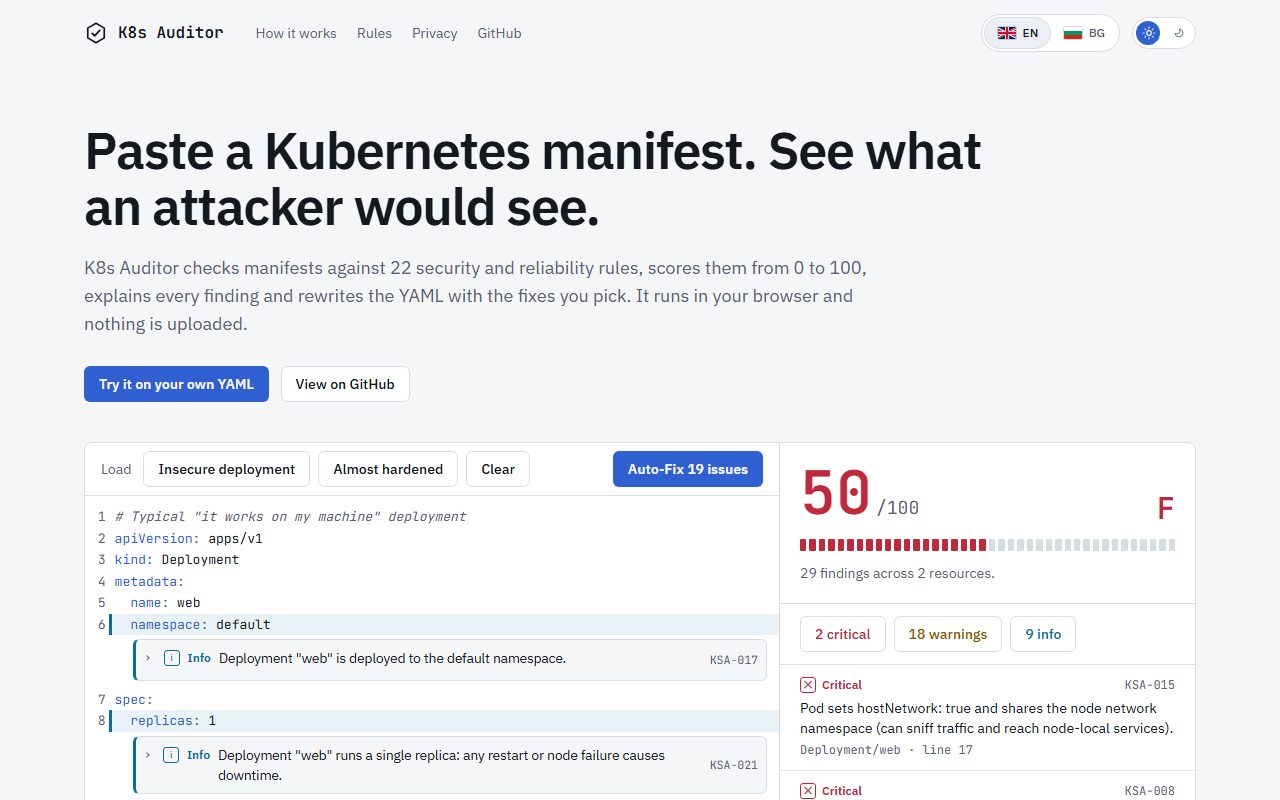
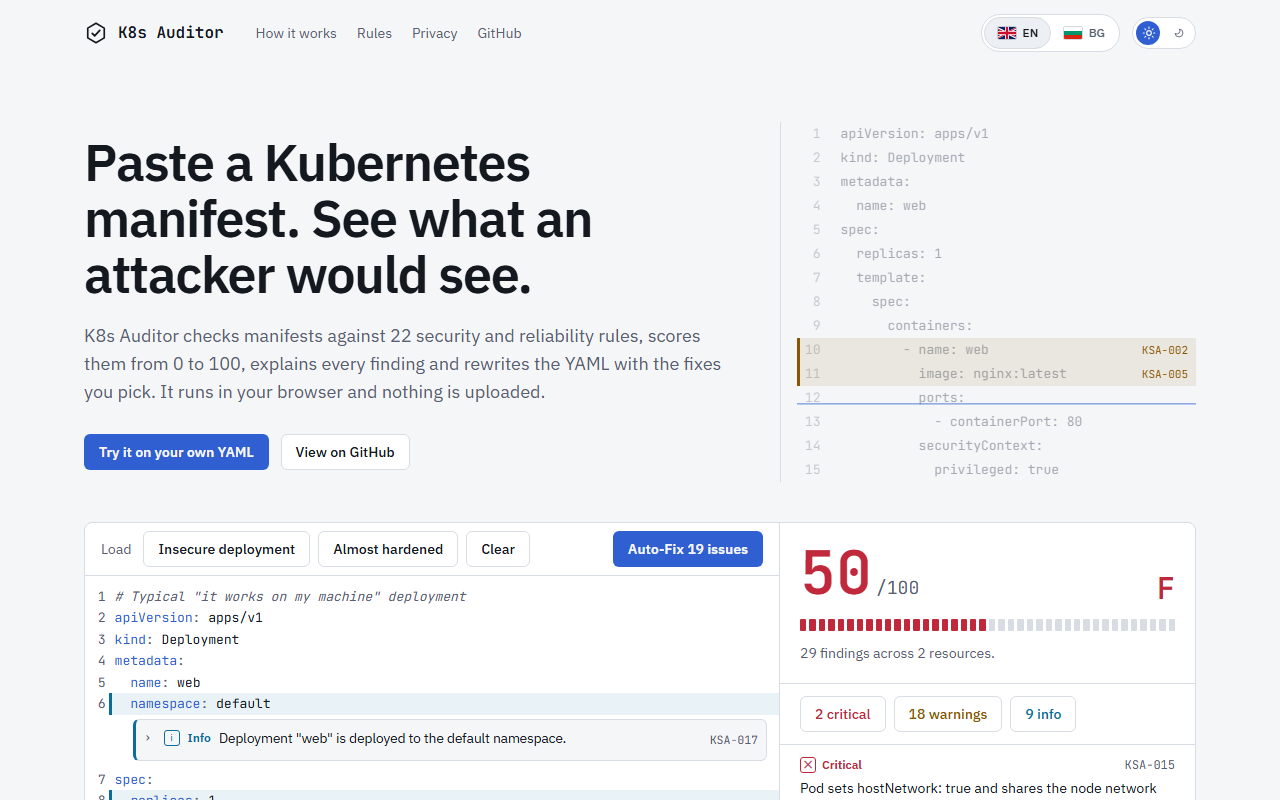
feat(ui): ghost manifest hero, pointer cursor and interaction states
Add a faint Deployment manifest to the hero that a thin scan line sweeps,
tinting the lines that carry findings. Give buttons, findings, annotations
and switches a pointer cursor with hover, active and focus states, and add
small transitions for the hero entrance and the grade. Everything honours
prefers-reduced-motion and the scan stops after three cycles.

diff --git a/src/index.css b/src/index.css
@@ -50,12 +50,25 @@
   --font-sans: 'IBM Plex Sans', 'Segoe UI', system-ui, sans-serif;
 }
 
+@layer base {
+  button:not(:disabled),
+  [role='switch'],
+  summary,
+  a[href] {
+    cursor: pointer;
+  }
+
+  button:disabled {
+    cursor: not-allowed;
+  }
+}
+
 @layer components {
   .btn {
-    @apply inline-flex min-h-10 items-center justify-center rounded-md border border-line bg-panel px-3.5 text-sm font-medium transition-colors hover:bg-raised disabled:opacity-40 lg:min-h-9;
+    @apply inline-flex min-h-10 items-center justify-center rounded-md border border-line bg-panel px-3.5 text-sm font-medium transition-[background-color,border-color,color,scale] duration-150 ease-out hover:bg-raised active:scale-[0.97] active:bg-[color-mix(in_srgb,var(--color-raised),var(--color-line)_60%)] disabled:opacity-40 disabled:active:scale-100 lg:min-h-9;
   }
   .btn-primary {
-    @apply border-transparent bg-k8s font-semibold text-ink hover:bg-k8s hover:opacity-90;
+    @apply border-transparent bg-k8s font-semibold text-ink hover:bg-[color-mix(in_srgb,var(--color-k8s),var(--color-text)_14%)] active:bg-[color-mix(in_srgb,var(--color-k8s),var(--color-text)_24%)];
   }
 }
 
@@ -91,6 +104,139 @@ body {
   from {
     opacity: 0;
     transform: translateY(-4px);
+  }
+}
+
+@keyframes k8s-rise {
+  from {
+    opacity: 0;
+    transform: translateY(6px);
+  }
+}
+
+@keyframes k8s-swap {
+  from {
+    opacity: 0;
+    transform: scale(0.8);
+  }
+}
+
+/* One entrance sequence for the hero; --i is the position in the sequence. */
+.rise {
+  animation: k8s-rise 420ms cubic-bezier(0.23, 1, 0.32, 1) backwards;
+  animation-delay: calc(var(--i, 0) * 70ms);
+}
+
+.grade-swap {
+  animation: k8s-swap 220ms cubic-bezier(0.23, 1, 0.32, 1);
+}
+
+/* Ghost manifest: --cycle is one scan, --rows the line count, --d the moment the scan reaches a flagged line. */
+.ghost {
+  --lh: 1.5rem;
+  position: relative;
+  counter-reset: ghost;
+  color: color-mix(in srgb, var(--color-dim) 50%, transparent);
+  font-family: var(--font-mono);
+  font-size: 0.8125rem;
+  line-height: var(--lh);
+  pointer-events: none;
+  user-select: none;
+}
+
+.ghost-line {
+  position: relative;
+  display: flex;
+  height: var(--lh);
+  white-space: pre;
+}
+
+.ghost-line::before {
+  counter-increment: ghost;
+  content: counter(ghost);
+  width: 2ch;
+  margin-right: 1.25rem;
+  text-align: right;
+  opacity: 0.6;
+}
+
+.ghost-mark {
+  position: absolute;
+  inset: 0 0 0 -0.5rem;
+  display: flex;
+  align-items: center;
+  justify-content: flex-end;
+  padding-right: 0.5rem;
+  background: color-mix(in srgb, var(--sev) 9%, transparent);
+  box-shadow: inset 3px 0 0 var(--sev);
+  color: var(--sev);
+  font-size: 0.6875rem;
+  opacity: 0;
+  animation: ghost-hit var(--cycle) var(--d) 3;
+}
+
+.ghost-scan {
+  position: absolute;
+  inset: 0 0 auto -0.5rem;
+  height: 1px;
+  background: var(--color-k8s);
+  opacity: 0;
+  animation: ghost-scan var(--cycle) linear 3;
+}
+
+.ghost[data-idle] .ghost-mark,
+.ghost[data-idle] .ghost-scan {
+  animation-play-state: paused;
+}
+
+/* The line travels between 4% and 76% of the cycle; GhostManifest derives each flagged line's --d from the same numbers. */
+@keyframes ghost-scan {
+  0% {
+    opacity: 0;
+    transform: translateY(0);
+  }
+  4% {
+    opacity: 0.8;
+    transform: translateY(0);
+  }
+  76% {
+    opacity: 0.8;
+    transform: translateY(calc(var(--rows) * var(--lh)));
+  }
+  80%,
+  100% {
+    opacity: 0;
+    transform: translateY(calc(var(--rows) * var(--lh)));
+  }
+}
+
+@keyframes ghost-hit {
+  0% {
+    opacity: 0;
+  }
+  2%,
+  20% {
+    opacity: 1;
+  }
+  28%,
+  100% {
+    opacity: 0;
+  }
+}
+
+@media (prefers-reduced-motion: reduce) {
+  .rise,
+  .grade-swap {
+    animation: none;
+  }
+
+  .ghost-scan {
+    display: none;
+  }
+
+  .ghost-mark {
+    animation: none;
+    opacity: 1;
   }
 }
 

diff --git a/src/ui/GhostManifest.tsx b/src/ui/GhostManifest.tsx
@@ -1,0 +1,74 @@
+import { useEffect, useRef } from 'react'
+import type { Severity } from '../core/types'
+
+interface Line {
+  text: string
+  mark?: { severity: Severity; rule: string }
+}
+
+const LINES: Line[] = [
+  { text: 'apiVersion: apps/v1' },
+  { text: 'kind: Deployment' },
+  { text: 'metadata:' },
+  { text: '  name: web' },
+  { text: 'spec:' },
+  { text: '  replicas: 1', mark: { severity: 'info', rule: 'KSA-021' } },
+  { text: '  template:' },
+  { text: '    spec:' },
+  { text: '      containers:' },
+  { text: '        - name: web', mark: { severity: 'warning', rule: 'KSA-002' } },
+  { text: '          image: nginx:latest', mark: { severity: 'warning', rule: 'KSA-005' } },
+  { text: '          ports:' },
+  { text: '            - containerPort: 80' },
+  { text: '          securityContext:' },
+  { text: '            privileged: true', mark: { severity: 'critical', rule: 'KSA-008' } },
+]
+
+const CYCLE_SECONDS = 12
+// Matches the scan keyframes: the line travels between 4% and 76% of the cycle.
+const reachedAt = (row: number) => CYCLE_SECONDS * (0.04 + (0.72 * (row + 0.5)) / LINES.length)
+
+const SEVERITY_VAR: Record<Severity, string> = {
+  critical: 'var(--color-crit)',
+  warning: 'var(--color-warn)',
+  info: 'var(--color-info)',
+}
+
+export function GhostManifest() {
+  const root = useRef<HTMLDivElement>(null)
+
+  useEffect(() => {
+    const el = root.current
+    if (!el) return
+    const observer = new IntersectionObserver(([entry]) => {
+      if (entry?.isIntersecting) el.removeAttribute('data-idle')
+      else el.setAttribute('data-idle', '')
+    })
+    observer.observe(el)
+    return () => observer.disconnect()
+  }, [])
+
+  return (
+    <div
+      ref={root}
+      aria-hidden="true"
+      className="ghost"
+      style={{ '--cycle': `${CYCLE_SECONDS}s`, '--rows': LINES.length } as React.CSSProperties}
+    >
+      <div className="ghost-scan" />
+      {LINES.map(({ text, mark }, row) => (
+        <div key={row} className="ghost-line">
+          {text}
+          {mark && (
+            <span
+              className="ghost-mark"
+              style={{ '--sev': SEVERITY_VAR[mark.severity], '--d': `${reachedAt(row).toFixed(2)}s` } as React.CSSProperties}
+            >
+              {mark.rule}
+            </span>
+          )}
+        </div>
+      ))}
+    </div>
+  )
+}

diff --git a/src/ui/Hero.tsx b/src/ui/Hero.tsx
@@ -1,5 +1,8 @@
 import { REPO_URL } from '../config'
 import { useI18n } from '../i18n/context'
+import { GhostManifest } from './GhostManifest'
+
+const step = (i: number) => ({ '--i': i }) as React.CSSProperties
 
 export function Hero() {
   const { t } = useI18n()
@@ -12,16 +15,26 @@ export function Hero() {
   }
 
   return (
-    <section id="top" className="mx-auto w-full max-w-6xl px-4 pt-10 pb-10 sm:px-5 sm:pt-14">
-      <h1 className="max-w-[18em] text-[clamp(2rem,5vw,3.25rem)] leading-[1.08] font-semibold tracking-tight">{t('hero.title')}</h1>
-      <p className="mt-5 max-w-[44em] text-lg text-dim">{t('hero.lead')}</p>
-      <div className="mt-7 flex flex-wrap gap-3">
-        <a href="#tool" onClick={goToTool} className="btn btn-primary">
-          {t('hero.cta')}
-        </a>
-        <a href={REPO_URL} rel="noopener noreferrer" className="btn">
-          {t('hero.cta2')}
-        </a>
+    <section
+      id="top"
+      className="mx-auto grid w-full max-w-6xl gap-10 px-4 pt-10 pb-10 sm:px-5 sm:pt-14 lg:grid-cols-[minmax(0,1fr)_24rem] lg:items-center xl:grid-cols-[minmax(0,1fr)_26rem]"
+    >
+      <div>
+        <h1 style={step(0)} className="rise max-w-[18em] text-[clamp(2rem,5vw,3.25rem)] leading-[1.08] font-semibold tracking-tight text-balance">
+          {t('hero.title')}
+        </h1>
+        <p style={step(1)} className="rise mt-5 max-w-[44em] text-lg text-pretty text-dim">{t('hero.lead')}</p>
+        <div style={step(2)} className="rise mt-7 flex flex-wrap gap-3">
+          <a href="#tool" onClick={goToTool} className="btn btn-primary">
+            {t('hero.cta')}
+          </a>
+          <a href={REPO_URL} rel="noopener noreferrer" className="btn">
+            {t('hero.cta2')}
+          </a>
+        </div>
+      </div>
+      <div style={step(3)} className="rise hidden border-l border-line pl-6 lg:block">
+        <GhostManifest />
       </div>
     </section>
   )

diff --git a/src/ui/cmTheme.ts b/src/ui/cmTheme.ts
@@ -61,9 +61,13 @@ const base = EditorView.theme(
       color: 'inherit',
       font: 'inherit',
       textAlign: 'left',
+      borderRadius: '4px',
       cursor: 'pointer',
+      transition: 'background-color 0.12s ease',
     },
-    '.cm-ann-chev': { color: 'var(--color-dim)', transition: 'transform 0.15s', lineHeight: '1.4', width: '10px' },
+    '.cm-ann-toggle:hover': { backgroundColor: 'color-mix(in srgb, var(--color-raised) 70%, transparent)' },
+    '.cm-ann-toggle:active': { backgroundColor: 'var(--color-raised)' },
+    '.cm-ann-chev': { color: 'var(--color-dim)', transition: 'transform 0.15s ease-out', lineHeight: '1.4', width: '10px' },
     '.cm-ann-chev.open': { transform: 'rotate(90deg)' },
     '.cm-ann-glyph': {
       display: 'grid',
@@ -92,9 +96,10 @@ const base = EditorView.theme(
       fontSize: '13px',
       fontWeight: '500',
       cursor: 'pointer',
-      transition: 'background-color 0.12s, color 0.12s, border-color 0.12s',
+      transition: 'background-color 0.12s, color 0.12s, border-color 0.12s, transform 0.12s ease-out',
     },
     '.cm-ann-apply:hover': { backgroundColor: 'var(--color-k8s)', borderColor: 'var(--color-k8s)', color: 'var(--color-ink)' },
+    '.cm-ann-apply:active': { transform: 'scale(0.97)' },
     '.cm-ann-body': { padding: '0 12px 10px 38px', borderTop: '1px solid var(--color-line)' },
     '.cm-ann-p': { margin: '8px 0 0' },
     '.cm-ann-dim': { color: 'var(--color-dim)' },

diff --git a/src/ui/ScoreMeter.tsx b/src/ui/ScoreMeter.tsx
@@ -47,7 +47,7 @@ export function ScoreMeter({ score, caption }: Props) {
   return (
     <section aria-label={t('meter.region')} className="border-b border-line px-4 py-5 sm:px-5 lg:border-l">
       <div className="flex items-end justify-between gap-4">
-        <div className="flex items-baseline gap-1" style={{ color }}>
+        <div className="flex items-baseline gap-1 transition-colors duration-300" style={{ color }}>
           <span className="font-mono text-6xl leading-none font-semibold tabular-nums" aria-live="polite" aria-atomic="true">
             <span className="sr-only">{score === null ? t('meter.none') : t('meter.scoreOf', { score })}</span>
             <span aria-hidden="true">{shown ?? '--'}</span>
@@ -55,7 +55,12 @@ export function ScoreMeter({ score, caption }: Props) {
           <span className="font-mono text-lg text-dim" aria-hidden="true">/100</span>
         </div>
         {score !== null && (
-          <div className="font-mono text-3xl leading-none font-semibold" style={{ color }} aria-label={t('meter.grade', { grade: gradeOf(score) })}>
+          <div
+            key={gradeOf(score)}
+            className="grade-swap font-mono text-3xl leading-none font-semibold"
+            style={{ color }}
+            aria-label={t('meter.grade', { grade: gradeOf(score) })}
+          >
             {gradeOf(score)}
           </div>
         )}

diff --git a/src/ui/Findings.tsx b/src/ui/Findings.tsx
@@ -58,7 +58,7 @@ export function Findings({ findings, counts, filter, onFilter, onSelect, hidden,
       <ul className="max-h-[70dvh] min-h-0 flex-1 overflow-y-auto lg:max-h-none">
         {visible.map((f, i) => (
           <li key={`${f.ruleId}:${f.resourceIndex}:${f.path.join('.')}:${i}`} className="border-b border-line/70">
-            <button type="button" onClick={() => onSelect(f)} className="block w-full px-4 py-3 text-left hover:bg-raised/60 sm:px-5">
+            <button type="button" onClick={() => onSelect(f)} className="block w-full px-4 py-3 text-left transition-colors duration-150 hover:bg-raised/60 active:bg-raised focus-visible:outline-offset-[-2px] sm:px-5">
               <span className="flex items-center justify-between gap-3">
                 <SeverityBadge severity={f.severity} />
                 <span className="font-mono text-xs text-dim">{f.ruleId}</span>

diff --git a/src/ui/FixPanel.tsx b/src/ui/FixPanel.tsx
@@ -57,7 +57,7 @@ export function FixPanel({ allFixes, excluded, onToggle, output, onApply, onBack
           const description = [...new Set(fixes.map((f) => fixText(lang, f)))].join(', ')
           return (
             <li key={id} className="border-b border-line/70">
-              <label className="flex cursor-pointer items-start gap-3 px-4 py-3 hover:bg-raised/60 sm:px-5">
+              <label className="flex cursor-pointer items-start gap-3 px-4 py-3 transition-colors duration-150 hover:bg-raised/60 active:bg-raised sm:px-5">
                 <input type="checkbox" checked={!off} onChange={() => onToggle(id)} className="mt-1 size-4 accent-[var(--color-k8s)]" />
                 <span className="min-w-0 flex-1">
                   <span className="flex items-center justify-between gap-3">

diff --git a/src/ui/ThemeToggle.tsx b/src/ui/ThemeToggle.tsx
@@ -75,7 +75,7 @@ export function ThemeToggle() {
       aria-checked={dark}
       aria-label={t(dark ? 'theme.toLight' : 'theme.toDark')}
       onClick={toggle}
-      className="relative h-8 w-16 shrink-0 rounded-full border border-line bg-panel"
+      className="relative h-8 w-16 shrink-0 rounded-full border border-line bg-panel transition-[border-color,scale] duration-150 ease-out before:absolute before:-inset-1 before:content-[''] hover:border-dim active:scale-95"
     >
       <span
         aria-hidden="true"

diff --git a/src/ui/Header.tsx b/src/ui/Header.tsx
@@ -6,7 +6,7 @@ import { ThemeToggle } from './ThemeToggle'
 
 export function Header() {
   const { t } = useI18n()
-  const link = 'text-sm text-dim transition-colors hover:text-text'
+  const link = 'py-2 text-sm text-dim transition-colors hover:text-text active:text-k8s'
 
   return (
     <header className="mx-auto flex w-full max-w-6xl items-center gap-5 px-4 py-3.5 sm:px-5">

diff --git a/README.md b/README.md
@@ -50,7 +50,7 @@ K8s Auditor shortens that loop. Open the page, paste YAML, and see what is wrong
 - **Auto-Fix with a review step.** See every change as a diff, untick the ones you do not want, then apply, copy or download the result.
 - **Comments and key order survive.** Fixes edit the parsed YAML document, not the text.
 - **Anchors, aliases and merge keys** (`&a`, `*a`, `<<`) are expanded before the rules run, so values that come from an alias are checked.
-- **English and Bulgarian**, light and dark theme (light by default), keyboard friendly.
+- **English and Bulgarian**, light and dark theme (light by default), keyboard friendly. Motion is subtle and switches off with `prefers-reduced-motion`.
 - **Zero runtime network access.** No backend, no analytics, no external fonts or scripts.
 
 ## How it works
@@ -134,7 +134,7 @@ The interface also comes in Bulgarian:
 
 | Layer | Choice | Why |
 | --- | --- | --- |
-| Language | TypeScript 6, strict mode | The rule and fixer contracts are typed end to end |
+| Language | TypeScript 7, strict mode | The rule and fixer contracts are typed end to end |
 | UI | React 19 | Small component tree, no state library needed |
 | Build | Vite 8 | Fast dev server, static output for GitHub Pages |
 | Styling | Tailwind CSS 4 with CSS variable tokens | One token set drives the light and dark themes |
